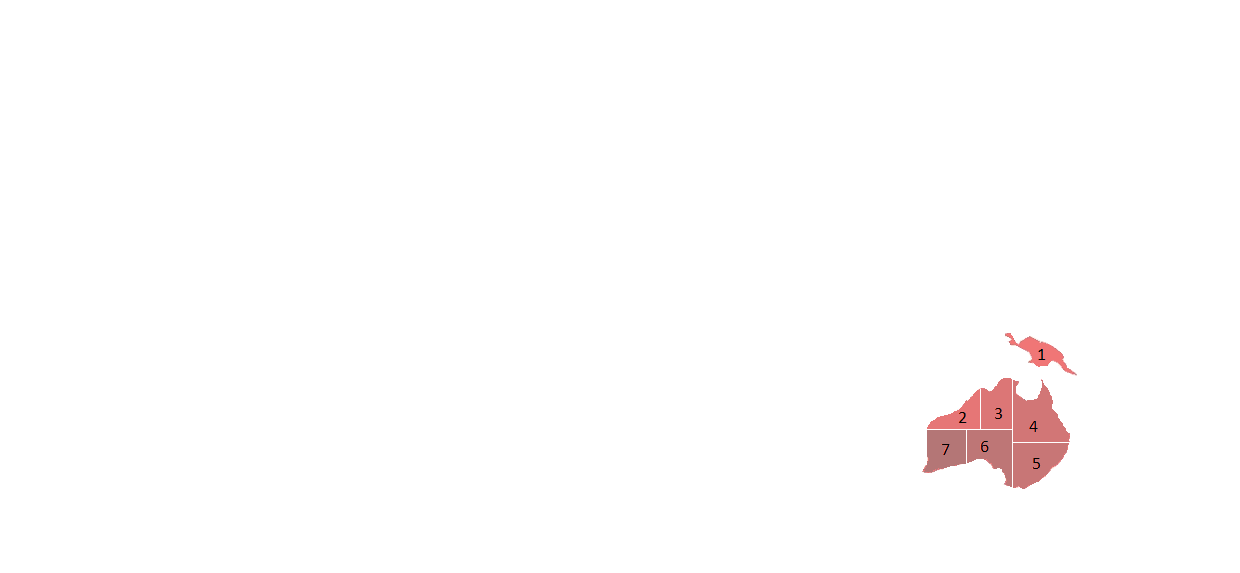
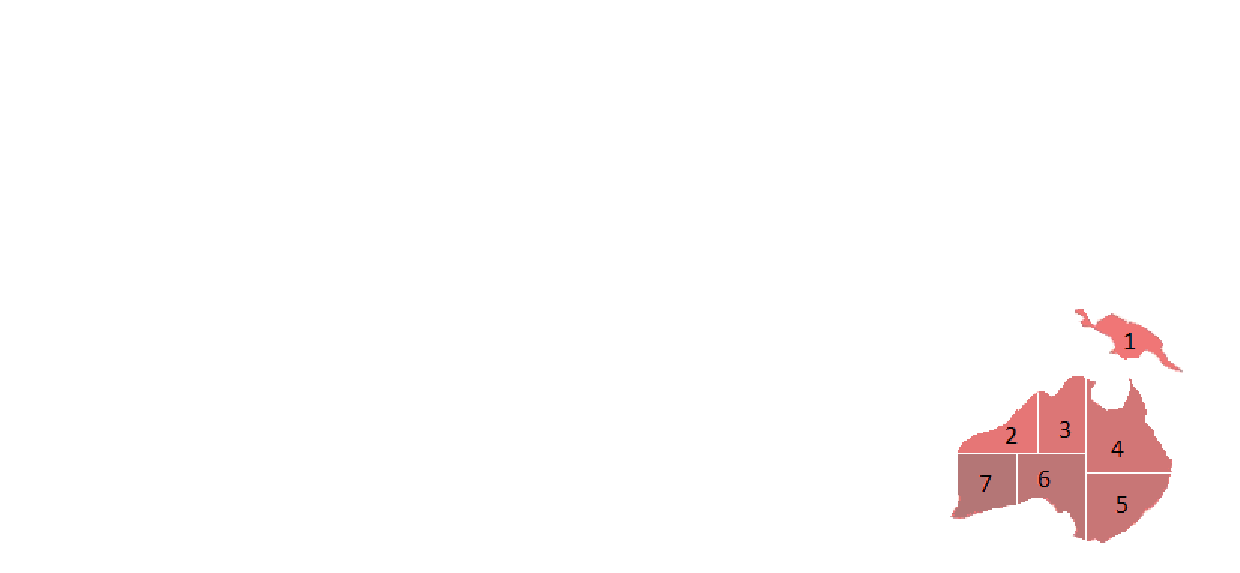
affichage du pays et de la zone au clique

Changed region(s): [[0.7355, 0.6527, 0.95, 0.9494], [0.8581, 0.534, 0.95, 0.6527], [0.7968, 0.5934, 0.8581, 0.6527]]

diff --git a/Risk_V4/src/jeu/Territoire.java b/Risk_V4/src/jeu/Territoire.java
@@ -1,22 +1,33 @@
 package jeu;
 
 import java.awt.Color;
+import java.util.ArrayList;
 
 public class Territoire {
 
 	private Color couleur_territoire;
 	private String Name;
+	
+	
+	private Zone[] liste_zone_possible;
 
-	public Territoire(Color couleur_territoire,String name) {
+	public Territoire(Color couleur_territoire,String name,Zone[]listeZone) {
 		super();
 		this.couleur_territoire = couleur_territoire;
 		this.Name = name;
+		this.liste_zone_possible = listeZone;
+		ConfigureZone(this.liste_zone_possible);
 	}
+
 
 	public Color getCouleur_territoire() {
 		return couleur_territoire;
 	}
 	
+	public Zone[] getListe_zone_possible() {
+		return liste_zone_possible;
+	}
+
 	public void setCouleur_territoire(Color couleur_territoire) {
 		this.couleur_territoire = couleur_territoire;
 	}
@@ -28,6 +39,51 @@ public class Territoire {
 		Name = name;
 	}
 
+	public void ConfigureZone(Zone[]liste) {
+		if (this.Name == "Asie") {
+			for (int i = 0; i < liste.length; i++) {
+				liste[i] = new Zone(this.couleur_territoire, this.Name, i+1);
+				liste[i].setCouleur_territoire(new Color(this.getCouleur_territoire().getRed(), 180 - (liste_zone_possible[i].getNum_zone() - 1)*10, this.getCouleur_territoire().getBlue()));
+			}
+		}	
+		
+		if (this.Name == "Afrique") {
+			for (int i = 0; i < liste.length; i++) {
+				liste[i] = new Zone(this.couleur_territoire, this.Name, i+1);
+				liste[i].setCouleur_territoire(new Color(170 - (liste_zone_possible[i].getNum_zone() - 1)*10 ,this.getCouleur_territoire().getGreen(), this.getCouleur_territoire().getBlue()));
+			}
+		}	
+		
+		if (this.Name == "Amerique_du_sud") {
+			for (int i = 0; i < liste.length; i++) {
+				liste[i] = new Zone(this.couleur_territoire, this.Name, i+1);
+				liste[i].setCouleur_territoire(new Color(this.getCouleur_territoire().getRed(), 180 - (liste_zone_possible[i].getNum_zone() - 1)*10, this.getCouleur_territoire().getBlue()));
+			}
+		}	
+		
+		if (this.Name == "Amerique_du_nord") {
+			for (int i = 0; i < liste.length; i++) {
+				liste[i] = new Zone(this.couleur_territoire, this.Name, i+1);
+				liste[i].setCouleur_territoire(new Color(150 - (liste_zone_possible[i].getNum_zone() - 1)*10 ,this.getCouleur_territoire().getGreen(), this.getCouleur_territoire().getBlue()));
+			}
+		}	
+		
+		if (this.Name == "Europe") {
+			for (int i = 0; i < liste.length; i++) {
+				liste[i] = new Zone(this.couleur_territoire, this.Name, i+1);
+				liste[i].setCouleur_territoire(new Color(this.getCouleur_territoire().getRed() ,this.getCouleur_territoire().getGreen() , 250 - (liste_zone_possible[i].getNum_zone() - 1)*10));
+			}
+		}	
+		
+		if (this.Name == "Oceanie") {
+			for (int i = 0; i < liste.length; i++) {
+				liste[i] = new Zone(this.couleur_territoire, this.Name, i+1);
+				liste[i].setCouleur_territoire(new Color(240 - (liste_zone_possible[i].getNum_zone() - 1)*10 ,this.getCouleur_territoire().getGreen(), this.getCouleur_territoire().getBlue()));
+			}
+		}	
+		
+
+	}
 
 
 	

diff --git a/Risk_V4/src/jeu/Maitre_du_jeu.java b/Risk_V4/src/jeu/Maitre_du_jeu.java
@@ -19,17 +19,30 @@ public class Maitre_du_jeu {
 	private  ArrayList<Joueur> listeJoueur = new ArrayList<Joueur>();
 
 	private Joueur current_player = joueur1;
+	
 
-	private Territoire Asie = new Territoire(new Color(227,0 ,77),"Asie");
-	private Territoire Afrique = new Territoire(new Color(0 ,25, 90),"Afrique");
-	private Territoire Amerique_du_sud = new Territoire(new Color(85, 0 ,89),"Amerique_du_sud");
-	private Territoire Amerique_du_nord = new Territoire(new Color(0,206, 78),"Amerique_du_nord");
-	private Territoire Europe = new Territoire(new Color(139, 149,0),"Europe");
-	private Territoire Oceanie = new Territoire(new Color(0,118, 118),"Oceanie");
+	private Zone zone1;
+	private Zone zone2;
+	private Zone zone3;
+	private Zone zone4;
+	private Zone zone5;
+	private Zone zone6;
+	private Zone zone7;
+	
+	private Zone[]lstZone = {zone1,zone2,zone3,zone4,zone5,zone6,zone7};
+	
+	private Territoire Asie = new Territoire(new Color(227,0 ,77),"Asie", new Zone[]{zone1,zone2,zone3,zone4,zone5,zone6,zone7});
+	private Territoire Afrique = new Territoire(new Color(0 ,25, 90),"Afrique",  new Zone[]{zone1,zone2,zone3,zone4,zone5,zone6,zone7});
+	private Territoire Amerique_du_sud = new Territoire(new Color(85, 0 ,89),"Amerique_du_sud",  new Zone[]{zone1,zone2,zone3,zone4,zone5,zone6,zone7});
+	private Territoire Amerique_du_nord = new Territoire(new Color(0,206, 78),"Amerique_du_nord",  new Zone[]{zone1,zone2,zone3,zone4,zone5,zone6,zone7});
+	private Territoire Europe = new Territoire(new Color(139, 149,0),"Europe",  new Zone[]{zone1,zone2,zone3,zone4,zone5,zone6,zone7});
+	private Territoire Oceanie = new Territoire(new Color(0,118, 118),"Oceanie", new Zone[]{zone1,zone2,zone3,zone4,zone5,zone6,zone7});
+	
 	
 	private Territoire[] liste_territoire_possible = {Asie, Afrique, Amerique_du_nord, Amerique_du_sud,Europe,Oceanie};
 	private ArrayList<Territoire> listeTerritoire = new ArrayList<Territoire>();
 	
+
 	
 	//constructeur
 	public Maitre_du_jeu() {
@@ -40,7 +53,6 @@ public class Maitre_du_jeu {
 	public static void main(String[] args) {	
 		Maitre_du_jeu maitre_du_jeu = new Maitre_du_jeu();
 		Introduction introduction = new Introduction(maitre_du_jeu);
-
 	}
 
 	public int getNombre_de_joueur() {
@@ -61,8 +73,9 @@ public class Maitre_du_jeu {
 		for (int i = 0; i < liste_territoire_possible.length; i++) {
 			listeTerritoire.add(liste_territoire_possible[i]);
 		}
+		
 		Plateau_de_jeu plateau_de_jeu = new Plateau_de_jeu(this, this.listeJoueur, this.listeTerritoire);
-
+		
 	}
 	
 }

diff --git a/Risk_V4/src/jeu/Zone.java b/Risk_V4/src/jeu/Zone.java
@@ -1,0 +1,51 @@
+package jeu;
+
+import java.awt.Color;
+
+public class Zone {
+
+	private Color couleur_territoire;
+	private String Name;
+	private int num_zone;
+	
+	
+	public Zone(Color couleur_territoire, String name, int num_zone) {
+		this.couleur_territoire = couleur_territoire;
+		Name = name;
+		this.num_zone = num_zone;
+	}
+
+
+	public Color getCouleur_territoire() {
+		return couleur_territoire;
+	}
+
+
+	public void setCouleur_territoire(Color couleur_territoire) {
+		this.couleur_territoire = couleur_territoire;
+	}
+
+
+	public String getName() {
+		return Name;
+	}
+
+
+	public void setName(String name) {
+		Name = name;
+	}
+
+
+	public int getNum_zone() {
+		return num_zone;
+	}
+
+
+	public void setNum_zone(int num_zone) {
+		this.num_zone = num_zone;
+	}
+
+
+
+
+}
